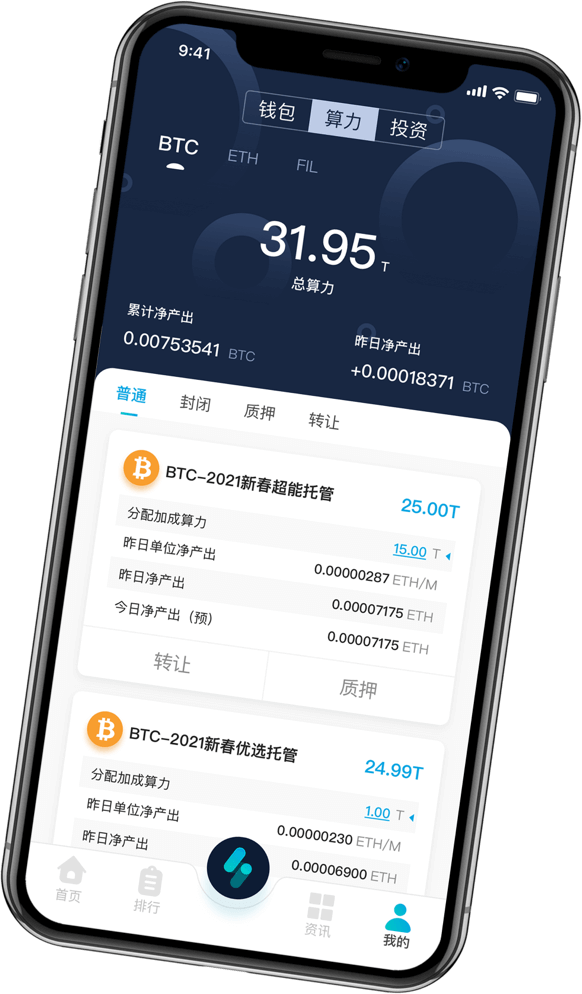
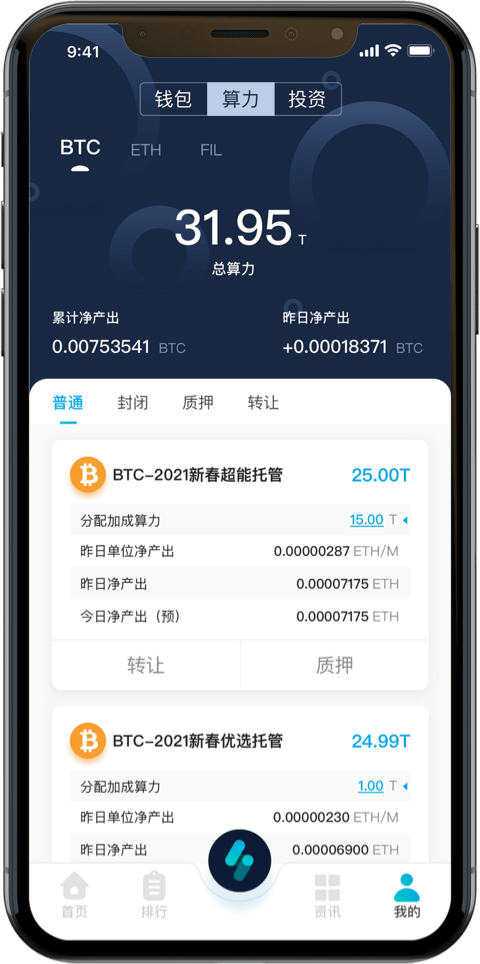
feat: MINE-1355 animation of scenario #3

diff --git a/src/pages/download/animation.less b/src/pages/download/animation.less
@@ -128,3 +128,36 @@
   animation: fade-out 1.5s, translate-to-left 1.5s;
   animation-delay: 1s;
 }
+
+.fade-bottom-rotate-img1-enter-active {
+  opacity: 0;
+  animation: fade-in 1s, translate-from-top80 1s, rotate-clockwise7 1s;
+  animation-delay: 1.25s, 1.25s, 2.25s;
+}
+
+.fade-bottom-rotate-img1-leave-active {
+  animation: rotate-clockwise7 1s reverse, fade-in 1s reverse;
+  animation-delay: 0.5s, 0.5s;
+}
+
+.fade-bottom-rotate-img2-enter-active {
+  opacity: 0;
+  animation: fade-in 1s, translate-from-top80 1s;
+  animation-delay: 1.25s, 1.25s;
+}
+
+.fade-bottom-rotate-img2-leave-active {
+  animation: fade-in 1s reverse;
+  animation-delay: 0.5s;
+}
+
+.fade-bottom-rotate-img3-enter-active {
+  opacity: 0;
+  animation: fade-in 1s, translate-from-top80 1s, rotate-anticlockwise7 1s;
+  animation-delay: 1.25s, 1.25s, 2.25s;
+}
+
+.fade-bottom-rotate-img3-leave-active {
+  animation: rotate-anticlockwise7 1s reverse, fade-in 1s reverse;
+  animation-delay: 0.5s, 0.5s;
+}

diff --git a/src/pages/download/index.vue b/src/pages/download/index.vue
@@ -26,13 +26,13 @@
         <transition name="zoom-img4" mode="out-in">
           <img v-if="isScenario2" class="img-1-4" src="@/assets/download/screen-shot.png" alt="">
         </transition>
-        <transition name="fade-left-img1" mode="out-in">
+        <transition name="fade-bottom-rotate-img1" mode="out-in">
           <img v-if="isScenario3" class="img-2-1" src="@/assets/download/3-1.png" alt="">
         </transition>
-        <transition name="fade-left-img2" mode="out-in">
+        <transition name="fade-bottom-rotate-img2" mode="out-in">
           <img v-if="isScenario3" class="img-2-2" src="@/assets/download/3-2.png" alt="">
         </transition>
-        <transition name="fade-left-img3" mode="out-in">
+        <transition name="fade-bottom-rotate-img3" mode="out-in">
           <img v-if="isScenario3" class="img-2-3" src="@/assets/download/3-3.png" alt="">
         </transition>
         <transition name="fade-left-img1" mode="out-in">

diff --git a/src/pages/download/index.less b/src/pages/download/index.less
@@ -91,12 +91,14 @@
   }
 
   .img-2-1 {
-    height: 491px;
-    width: 300px;
+    height: 481px;
+    width: 240px;
     position: absolute;
     z-index: 6;
-    top: 117px;
-    left: 353px;
+    top: 111px;
+    left: 219px;
+    transform: rotate(10deg);
+    transform-origin: 120px 980px;
   }
 
   .img-2-2 {
@@ -109,12 +111,14 @@
   }
 
   .img-2-3 {
-    height: 497px;
-    width: 291px;
+    height: 481px;
+    width: 240px;
     position: absolute;
     z-index: 4;
     top: 111px;
-    left: -12px;
+    left: 219px;
+    transform: rotate(-10deg);
+    transform-origin: 120px 980px;
   }
 
   .img-3-1 {

diff --git a/src/pages/download/keyframes.less b/src/pages/download/keyframes.less
@@ -118,3 +118,31 @@
     opacity: 1;
   }
 }
+
+@keyframes rotate-clockwise7 {
+  from {
+    opacity: 1;
+    transform: rotate(0deg);
+    transform-origin: 120px 980px;
+  }
+
+  to {
+    opacity: 1;
+    transform: rotate(10deg);
+    transform-origin: 120px 980px;
+  }
+}
+
+@keyframes rotate-anticlockwise7 {
+  from {
+    opacity: 1;
+    transform: rotate(0deg);
+    transform-origin: 120px 980px;
+  }
+
+  to {
+    opacity: 1;
+    transform: rotate(-10deg);
+    transform-origin: 120px 980px;
+  }
+}

diff --git a/src/pages/download/glass-square.less b/src/pages/download/glass-square.less
@@ -1,6 +1,6 @@
 .glass-square {
   box-shadow: 0 7px 19px 0 rgba(0, 0, 0, 0.09);
-  filter: blur(1px);
+  filter: blur(2px);
   background-color: #fff;
   opacity: 0.5;
 }
